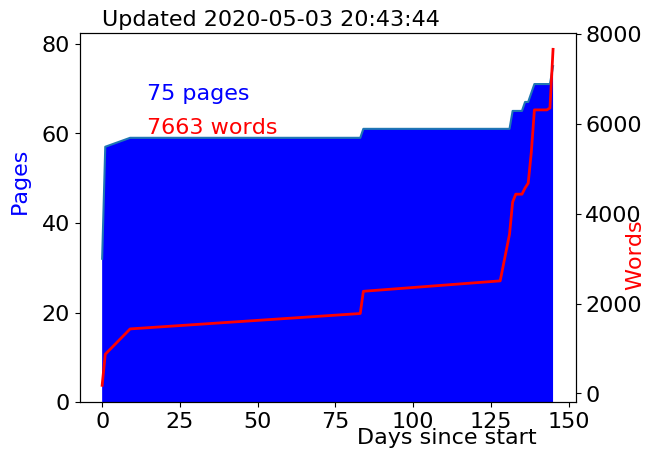
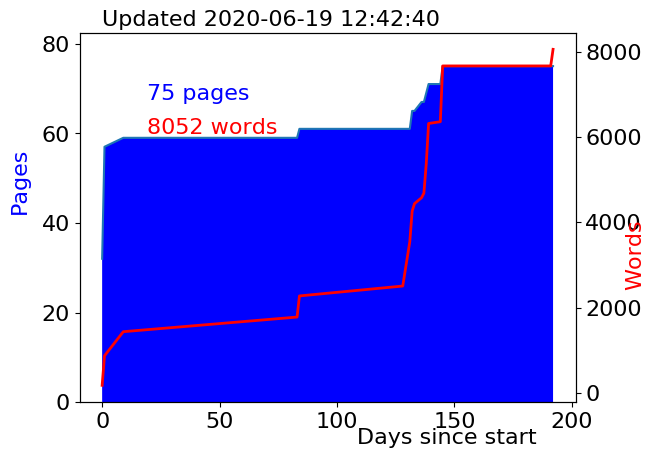
finally starting detector chapter

diff --git a/Chapters/ATLAS.tex b/Chapters/ATLAS.tex
@@ -1,6 +1,27 @@
 \chapter{The ATLAS Detector}
 
-\section{General Overview}
+The \ac{ATLAS} detector is a cylindrical general purpose particle detector designed to measure the products of $\sqrt{s} = 14 \TeV$ proton-proton collisons at the \ac{LHC}. It consists of three major sub-detectors: closest to the beamline is the the \ac{ID}, which measures the tragectories of charge particles, followed by the Calorimeters, which measure the energies of electromagnetic and hadronically interacting particles, and finally the \ac{MS} which measures the trajectories of muons. The \ac{ID} is surrounded by a super conducting solenoidal magnet that provides a uniform $2\textrm{T}$ magnetic field, enabling measurement of particles' charge and momentum, and a torodial magnet surrounds \ac{MS}, allowing for charge and momentum measurements of muons. A schematic of the \ac{ATLAS} detector is shown in \autoref{fig:atlas-schematic}.
+
+
+%https://atlas.cern/discover/detector
+\begin{figure}[htbp]
+\centering
+\includegraphics[width=.8\textwidth]{figures/Detector/atlas-schematic.jpg}
+\caption{A schematic of the \ac{ATLAS} detector. The dimensions, subdetectors, and magnet systems are labeled. }
+\label{fig:atlas-schematic}
+\end{figure}
+
+\section{Coordinate System}
+\ac{ATLAS} uses a cartesian right-handed coordinate system, with the origin defined as the $pp$ collision point. The $z$-axis points along the beampipe, where $+z$ points counter-clockwise. The transvers plane, the $y$-axis and $x$-axis, points upward and toward the center of the \ac{LHC} ring, respectively. The detector is built with with symmetry across the origin in in $z$, as well as with rotational symmetry in the transverse plane. The $+z$ side of the detector is referred to as the A-side, and $-z$ as the C-side.
+
+Cylindrical coordinates provide a comfortable description of the \ac{ATLAS} detector, where $\phi$ measures the angle in the $x-y$ plane around the beampipe, and $\theta$ the angle from the $z$ axis. $\phi$ is positive for positive $y$. 
+
+A given's particle's momentum in $z$ is not known, but its transverse momentum is known to be $0$, so it is advantageous to define spatial variables independent of $z$ momentum. Thus, instead of $\theta$, $\eta = - \textrm{ln}(\textrm{tan}\frac{\theta}{2})$ is used to describe angle from the $z$ axis. Particles perpindicular to the $z$ axis have $\eta = 0$, while those parallel to the beamline have $\eta \rightarrow \infty$. 
+
+Angular distances between objects is described using $\Delta R = \sqrt{\Delta \eta ^2 + \Delta \phi ^2}$ and the radial distance from the origin in the $x-y$ plane is denoted $R$. 
+
+A particle's momentum will generally be described in terms of its \pT, its momentum in the transverse direction. A particle's $3$-vector is described by $(\pt, \eta, \phi)$, which are all invariant under boosts in $z$ assuming the particle can be considered massless (which is true in the case of particles in \ac{ATLAS}).
+
 \section{Inner Detector}
 \section{Calorimeters}
 \section{Muon Spectrometer}

diff --git a/scripts/pages.md b/scripts/pages.md
@@ -154,3 +154,11 @@
 + [2020-05-03-20h39m58s] 75 7666
 + [2020-05-03-20h40m57s] 75 7666
 + [2020-05-03-20h43m44s] 75 7663
++ [2020-06-19-11h57m48s] 75 7757
++ [2020-06-19-12h00m55s] 75 7757
++ [2020-06-19-12h08m10s] 75 7797
++ [2020-06-19-12h26m22s] 75 7984
++ [2020-06-19-12h27m14s] 75 7984
++ [2020-06-19-12h38m47s] 75 8056
++ [2020-06-19-12h41m38s] 75 8054
++ [2020-06-19-12h42m40s] 75 8052
